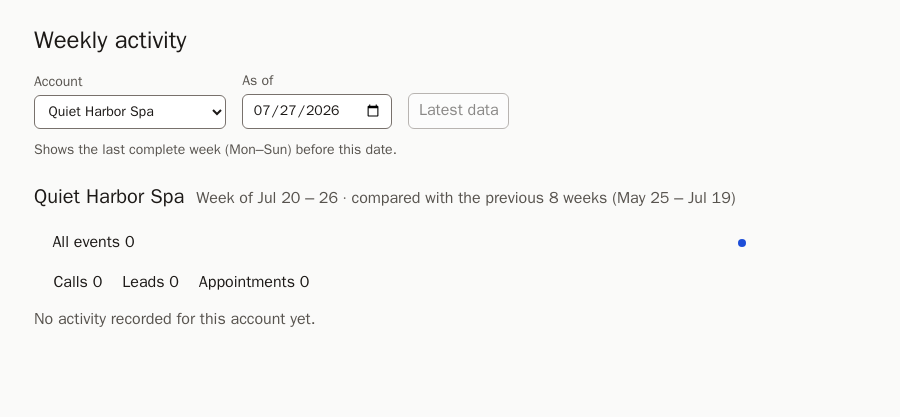
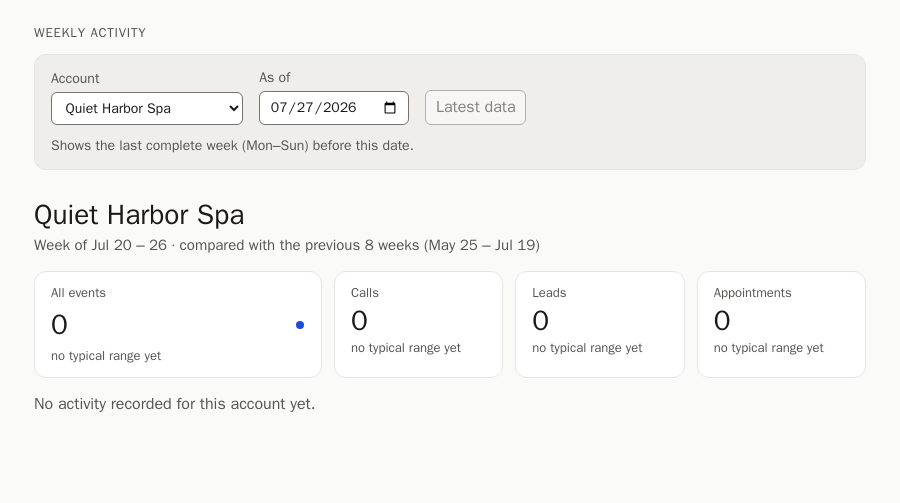
Modernise the header: toolbar, title, attention pill, stat cards
Controls sit in a rounded toolbar with a subtle background; the account
name is the main title with the week as a muted subtitle; "No locations
need attention" is a neutral pill; account totals become stat cards
(label, big number, "typical a–b"), with the All events card carrying
the account sparkline. Plain CSS, new tokens contrast-checked in light
and dark; phone layout stacks All events above the three type cards.
Screenshots regenerated.

diff --git a/frontend/src/styles.css b/frontend/src/styles.css
@@ -13,7 +13,10 @@
   --spark-line: #57534e;
   --spark-current: #1d4ed8;
   --spark-band-opacity: 0.14;
-  /* location rows, their column headers and the account-total line share these columns */
+  --toolbar-bg: #f0eeeb; /* text 15:1, muted 6.6:1, control borders 4.1:1, focus 5.8:1 */
+  --pill-bg: #e9e7e4; /* text 14:1 */
+  --radius: 12px;
+  /* location rows and their column headers share these columns */
   --row-columns: 11rem 1fr 120px 5.5rem;
   font-family: system-ui, -apple-system, "Segoe UI", sans-serif;
   color: var(--text);
@@ -35,6 +38,8 @@
     --spark-line: #8f8780;
     --spark-current: #3b82f6;
     --spark-band-opacity: 0.26;
+    --toolbar-bg: #292524; /* text 13.9:1, muted 6:1, control borders 4.3:1, focus 8.4:1 */
+    --pill-bg: #35312d; /* text 11.8:1 */
   }
 }
 
@@ -49,21 +54,33 @@ main {
   padding: 1.5rem 1rem 3rem;
 }
 
+/* the page label; the account name below is the main title */
 h1 {
-  font-size: 1.5rem;
-  margin: 0 0 1rem;
+  font-size: 0.8125rem;
+  font-weight: 600;
+  letter-spacing: 0.06em;
+  text-transform: uppercase;
+  color: var(--muted);
+  margin: 0 0 0.75rem;
 }
 
 h2 {
-  font-size: 1.25rem;
-  margin: 1.5rem 0 0.25rem;
+  font-size: 1.75rem;
+  font-weight: 700;
+  line-height: 1.2;
+  margin: 0;
 }
 
+/* toolbar: account and date controls on a subtle panel */
 .controls {
   display: flex;
   flex-wrap: wrap;
   gap: 0.75rem 1rem;
   align-items: end;
+  padding: 0.85rem 1rem;
+  background: var(--toolbar-bg);
+  border: 1px solid var(--border);
+  border-radius: var(--radius);
 }
 
 .controls label {
@@ -106,9 +123,26 @@ button:disabled {
   color: var(--muted);
 }
 
-.attention {
+.pill {
+  display: inline-flex;
+  align-items: center;
+  gap: 0.45rem;
+  margin: 1rem 0 0;
+  padding: 0.3rem 0.85rem;
+  border: 1px solid var(--border);
+  border-radius: 999px;
+  background: var(--pill-bg);
+  font-size: 0.875rem;
   font-weight: 600;
-  margin: 0.75rem 0 0;
+}
+
+/* decorative dot; empty content, so screen readers read only the text */
+.pill::before {
+  content: "";
+  width: 0.5rem;
+  height: 0.5rem;
+  border-radius: 50%;
+  background: var(--muted);
 }
 
 .error {
@@ -187,18 +221,8 @@ button:disabled {
   font-size: 0.8125rem;
 }
 
-.totals {
-  list-style: none;
-  display: flex;
-  flex-wrap: wrap;
-  gap: 0.25rem 1.25rem;
-  /* indented like .account-total and the rows (1px border + 4px left border + 0.9rem padding) */
-  padding: 0 0 0 calc(0.9rem + 5px);
-  margin: 0.5rem 0 0;
-}
 
-/* same columns and horizontal box as a location row, so the sparkline lines up with the rows' */
-.account-total,
+/* same columns and horizontal box as a location row */
 .location-columns {
   display: grid;
   grid-template-columns: var(--row-columns);
@@ -207,24 +231,7 @@ button:disabled {
   padding: 0 0.9rem;
   border: 1px solid transparent;
   border-left-width: 4px;
-}
-
-.account-total {
-  margin: 0.75rem 0 0;
-  font-weight: 600;
-}
-
-.account-total > :first-child {
-  grid-column: 1 / 3;
-}
-
-.account-total .sparkline {
-  grid-area: auto;
-  grid-column: 3;
-}
-
-.location-columns {
-  margin: 1rem 0 0;
+  margin: 1.5rem 0 0;
   font-size: 0.8125rem;
   color: var(--muted);
 }
@@ -237,17 +244,60 @@ button:disabled {
   margin-top: 0.35rem;
 }
 
+/* account name as the main title, the week as a muted subtitle */
 .summary-head {
-  display: flex;
-  flex-wrap: wrap;
-  align-items: baseline;
-  column-gap: 0.75rem;
-  margin: 1.5rem 0 0.25rem;
+  margin: 1.75rem 0 0;
 }
 
-.summary-head h2,
 .summary-head .period {
-  margin: 0;
+  margin: 0.3rem 0 0;
+  font-size: 0.9375rem;
+}
+
+/* stat cards: All events (with its sparkline) is wider, then one card per event type */
+.stat-cards {
+  list-style: none;
+  display: grid;
+  grid-template-columns: minmax(15rem, 1.7fr) repeat(3, minmax(0, 1fr));
+  gap: 0.75rem;
+  padding: 0;
+  margin: 1rem 0 0;
+}
+
+.stat-card {
+  display: flex;
+  flex-direction: column;
+  gap: 0.15rem;
+  min-width: 0;
+  padding: 0.75rem 1rem;
+  background: var(--surface);
+  border: 1px solid var(--border);
+  border-radius: var(--radius);
+}
+
+.stat-label {
+  font-size: 0.8125rem;
+  font-weight: 600;
+  color: var(--muted);
+}
+
+.stat-main {
+  display: flex;
+  align-items: center;
+  justify-content: space-between;
+  gap: 0.75rem;
+}
+
+.stat-value {
+  font-size: 1.75rem;
+  font-weight: 700;
+  line-height: 1.15;
+  font-variant-numeric: tabular-nums;
+}
+
+.stat-range {
+  font-size: 0.8125rem;
+  color: var(--muted);
 }
 
 .sparkline {
@@ -313,15 +363,27 @@ button:disabled {
     display: none;
   }
 
-  .account-total {
-    display: flex;
-    flex-wrap: wrap;
-    gap: 0.25rem 1rem;
-    padding: 0;
+  /* headers are hidden on phones, so keep the rows clear of the stat cards */
+  .location-columns + .locations {
+    margin-top: 1rem;
   }
 
-  .totals {
-    padding: 0;
+  /* phone: All events across the top, the three type cards below it */
+  .stat-cards {
+    grid-template-columns: repeat(3, minmax(0, 1fr));
+    gap: 0.5rem;
+  }
+
+  .stat-card-all {
+    grid-column: 1 / -1;
+  }
+
+  .stat-card {
+    padding: 0.6rem 0.75rem;
+  }
+
+  .stat-value {
+    font-size: 1.5rem;
   }
 
   .location {

diff --git a/frontend/src/components/AccountTotals.tsx b/frontend/src/components/AccountTotals.tsx
@@ -2,24 +2,34 @@ import type { WeeklySummary } from "../api";
 import { EVENT_TYPE_LABEL, EVENT_TYPE_ORDER as ORDER } from "../eventTypes";
 import { Sparkline } from "./Sparkline";
 
+function typicalRange(low: number | null, high: number | null): string {
+  return low === null || high === null ? "no typical range yet" : `typical ${low}–${high}`;
+}
 
-// Context only: the account's totals are never flagged.
+// Stat cards for the account. Context only: the account's totals are never flagged.
 export function AccountTotals({ summary }: { summary: WeeklySummary }) {
   const all = summary.account_total;
-  const allRange = all.typical_low === null || all.typical_high === null ? "" : ` (typical ${all.typical_low}–${all.typical_high})`;
   return (
-    <>
-      <p className="account-total">
-        <span>{`All events ${all.count}${allRange}`}</span>
-        <Sparkline label="All events" weeks={all.weeks} typicalLow={all.typical_low} typicalHigh={all.typical_high} size="header" />
-      </p>
-      <ul className="totals" aria-label="Account totals">
+    <ul className="stat-cards" aria-label="Account totals">
+      <li className="stat-card stat-card-all">
+        <span className="stat-label">All events</span>
+        <span className="stat-main">
+          <span className="stat-value">{all.count}</span>
+          <Sparkline label="All events" weeks={all.weeks} typicalLow={all.typical_low} typicalHigh={all.typical_high}
+                     size="header" />
+        </span>
+        <span className="stat-range">{typicalRange(all.typical_low, all.typical_high)}</span>
+      </li>
       {ORDER.map((type) => {
         const t = summary.account_totals[type];
-        const range = t.typical_low === null || t.typical_high === null ? "" : ` (typical ${t.typical_low}–${t.typical_high})`;
-        return <li key={type}>{`${EVENT_TYPE_LABEL[type].title} ${t.count}${range}`}</li>;
+        return (
+          <li key={type} className="stat-card">
+            <span className="stat-label">{EVENT_TYPE_LABEL[type].title}</span>
+            <span className="stat-value">{t.count}</span>
+            <span className="stat-range">{typicalRange(t.typical_low, t.typical_high)}</span>
+          </li>
+        );
       })}
-      </ul>
-    </>
+    </ul>
   );
 }

diff --git a/frontend/src/components/LocationList.tsx b/frontend/src/components/LocationList.tsx
@@ -45,7 +45,7 @@ export function AttentionLine({ summary }: { summary: WeeklySummary }) {
   if (locations.length === 0 || locations.some((l) => l.flagged)) return null;
   const anyAssessed = locations.some((l) => ASSESSED.includes(l.status));
   return (
-    <p role="status" className="attention">
+    <p role="status" className="attention pill">
       {anyAssessed
         ? "No locations need attention this week."
         : "Not enough activity to assess any location this week."}
